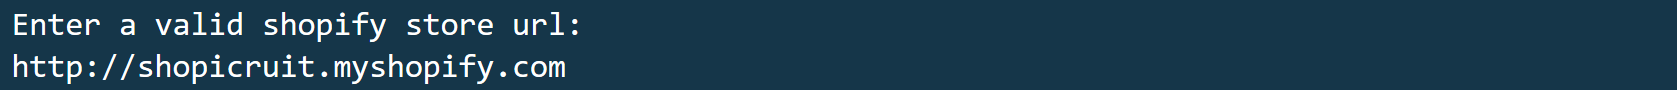
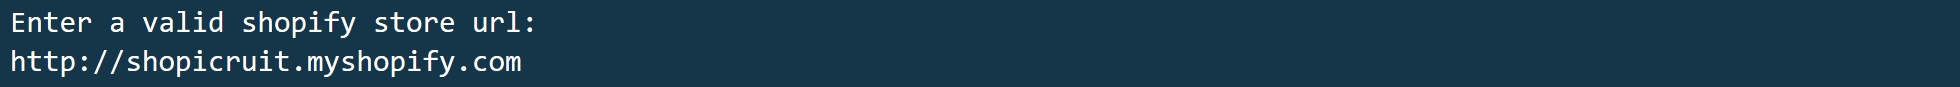
replace url prompt img

diff --git a/README.md b/README.md
@@ -13,5 +13,5 @@ ruby app.rb
 ```
 
 ## example
-![](/screenshots/url_prompt_img_1.PNG)
+![](/screenshots/url_prompt_img.PNG)
 
